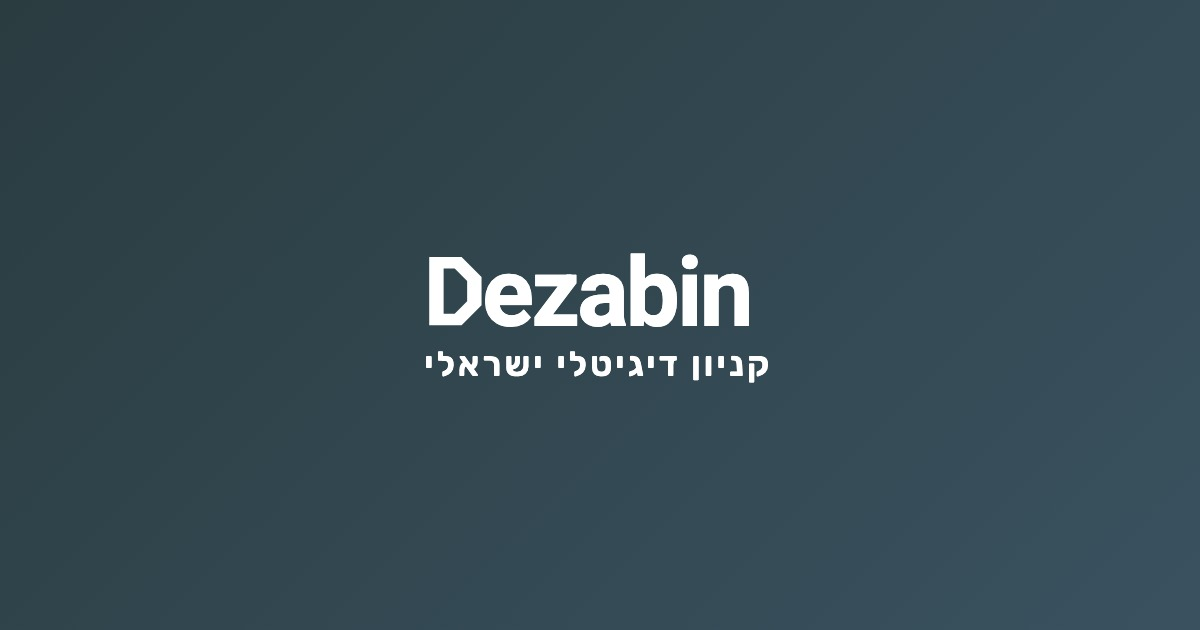
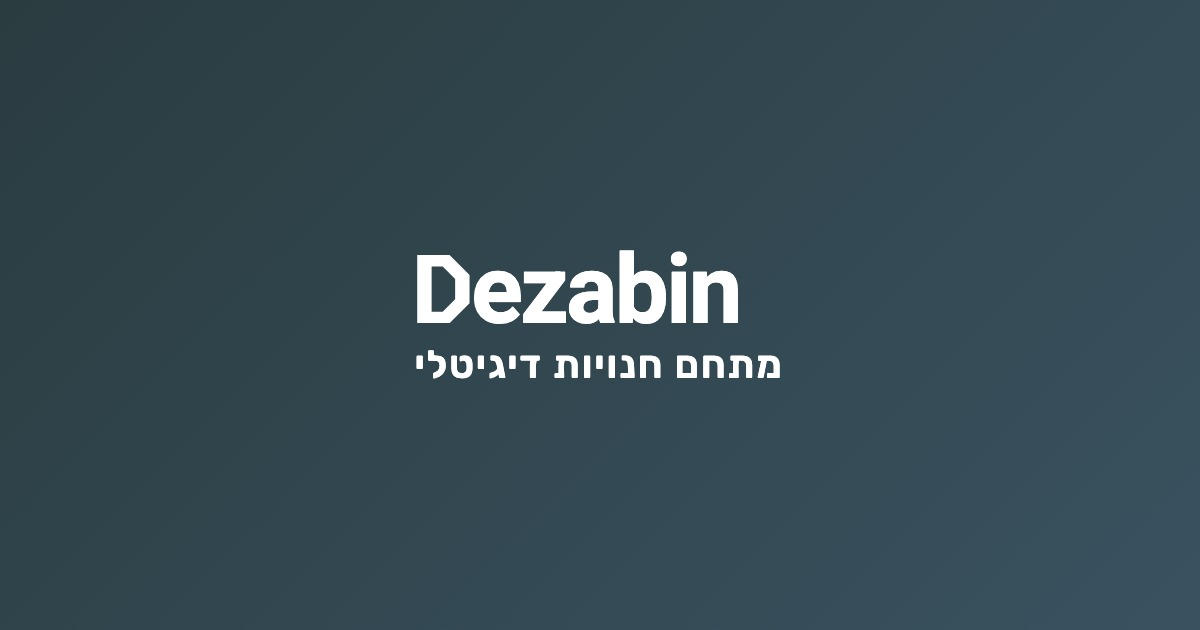
The slogan changed, and the store name stopped losing to the search box
"מתחם חנויות דיגיטלי" replaces "קניון דיגיטלי ישראלי" in the lockup and in every
generated asset. The tracking that fits it to the wordmark's width is a property
of the STRING, so it was re-solved against the rendered page — and solved
differently on purpose: the line is now 0.40em with a tenth of that in tracking,
where before it was 0.356em needing twice as much. Both fit exactly; stretching
Hebrew letters apart is the ugliest way to buy width, so the version that buys it
with size wins.

The header fix is the one with teeth. Its 3-column grid sizes the search bar
FIRST and splits what is left between the two outer tracks, so on a narrow
desktop window a store with a long name watched it ellipsis down to nothing —
and the name is the one thing on that row that says which shop you are standing
in. Under 1024px the row stops centring: the name takes its own width and the
search becomes the flexible track, floored so it cannot collapse to a slit and
capped at 480px so it cannot eat the whole row either (it reached 689px on a
1000px window before the cap).

Changed region(s): [[0.3392, 0.3921, 0.6475, 0.6032]]

diff --git a/src/styles/components/header.css b/src/styles/components/header.css
@@ -319,6 +319,33 @@ nav a:hover { color: var(--color-text); }
   .site-header .container:has(> .header-search) > .back-to-store-pill {
     display: none;
   }
+  /* Centring is a luxury, and below ~1024px it is paid for by the store's name.
+     The 3-column `1fr auto 1fr` grid above sizes the search FIRST and splits
+     what is left between the two outer tracks, so on a narrow desktop window a
+     store with a long name watched it ellipsis down to a couple of characters —
+     the name is the one thing on that row that says which shop you are standing
+     in, so it cannot be the thing that gives way.
+
+     Under 1024px the row stops centring: the name takes its own width (still
+     capped at 260px by the rule above) and the search becomes the flexible
+     track, with a floor of its own so it never collapses to a slit either. */
+  @media (max-width: 1023px) {
+    .site-header .container:has(> .header-search) {
+      grid-template-columns: minmax(6rem, auto) minmax(7rem, 1fr) auto;
+      gap: 0.75rem;
+    }
+    .site-header .container:has(> .header-search) > .header-search {
+      justify-self: stretch;
+      width: 100%;
+      /* Still capped: without a ceiling the field simply ate every spare pixel —
+         measured 689px on a 1000px window, which is a search bar that looks like
+         a mistake. It stretches only until it reaches the width it has on a wide
+         screen. */
+      max-width: 480px;
+      min-width: 0;
+    }
+  }
+
   .header-search {
     /* Width scales down with the viewport itself (min(480px, 38vw)) instead
        of staying rigid at 480px until the row runs out of room — starts
